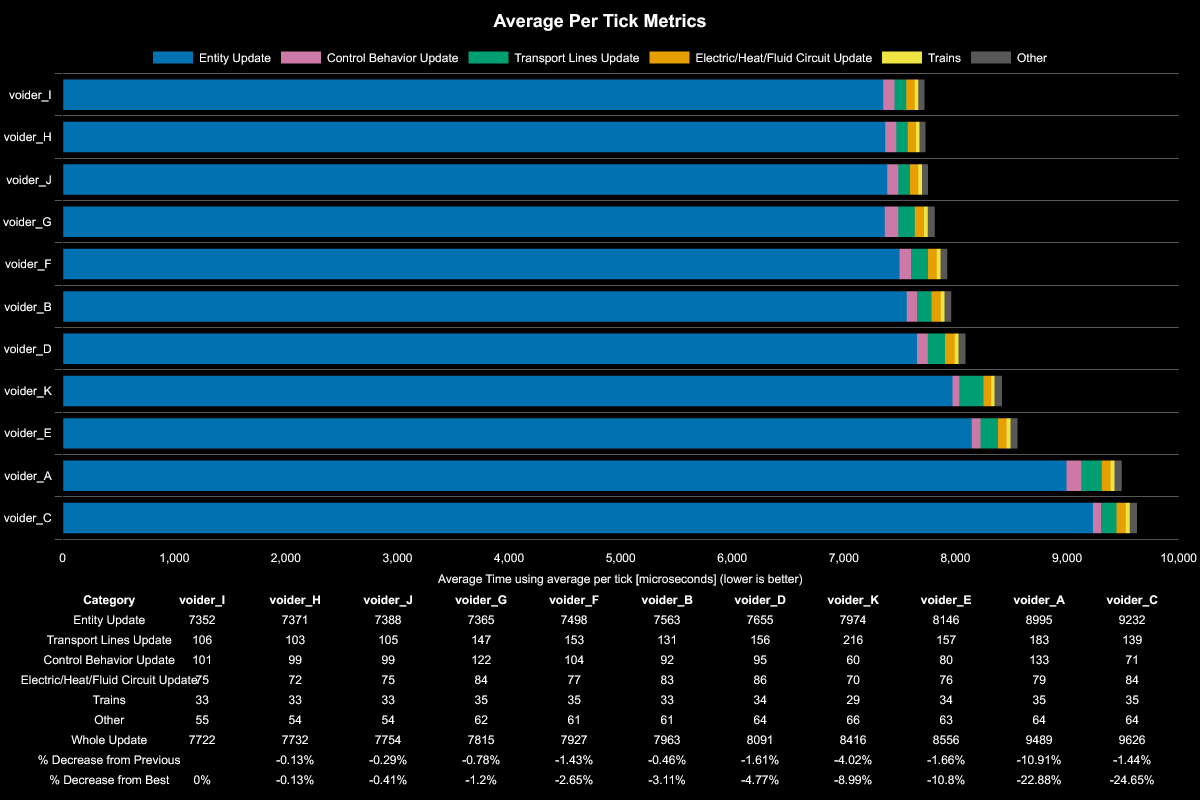
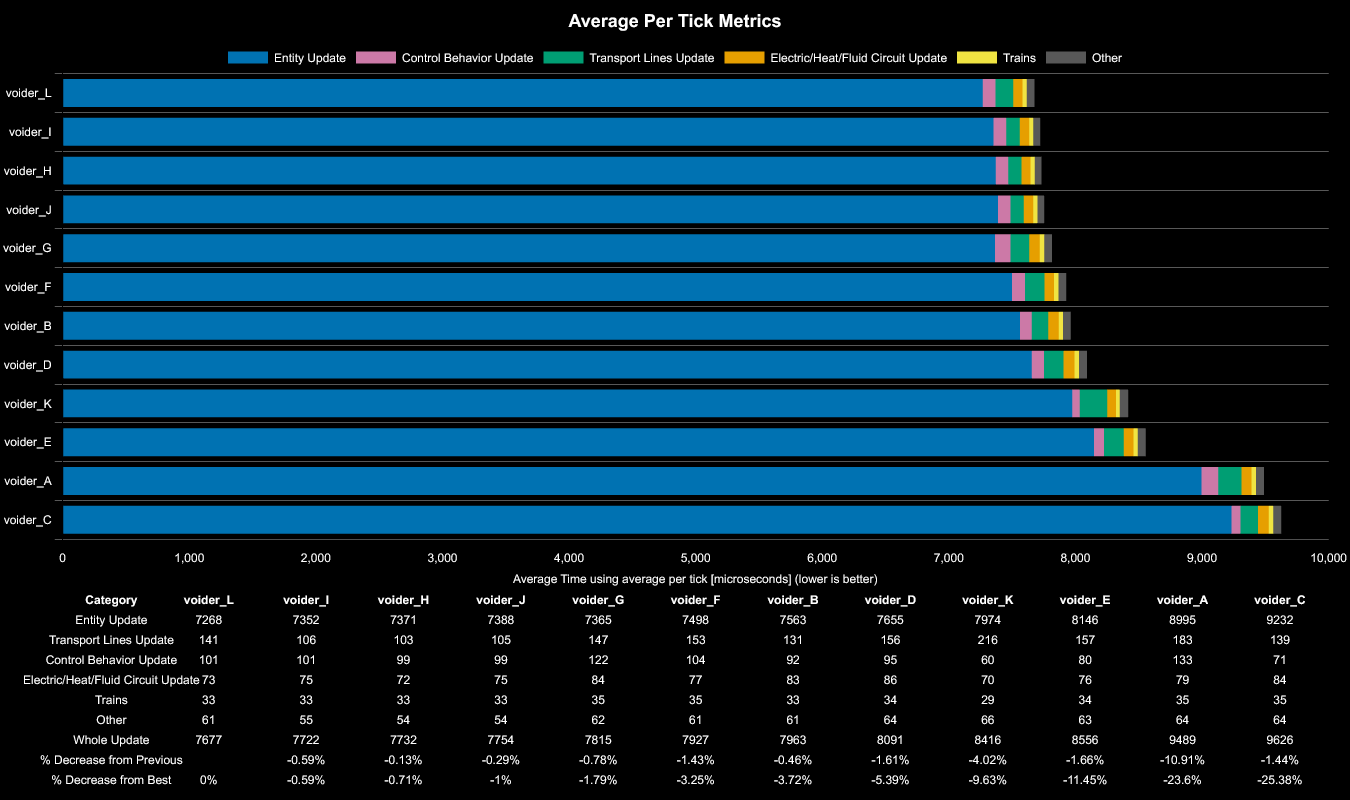
design L

diff --git a/benchmarks/2025-10-14-recycler-clocking/README.md b/benchmarks/2025-10-14-recycler-clocking/README.md
@@ -11,21 +11,22 @@
 
 ### Designs
 
-All Designs: https://factoriobin.com/post/i2sb8g
+All Designs: https://factoriobin.com/post/nv7lg3
 
-| Name | Q2 Ore Output | Description                                                     | Screenshot                                                                                                           |
-| ---- | ------------- | --------------------------------------------------------------- | -------------------------------------------------------------------------------------------------------------------- |
-| A    | 480/s         | latched on / off based on quantity in steel chests              | <a href="design_screenshot/design_A.png"><img src="design_screenshot/design_A.png" alt="design_A" height="100"/></a> |
-| B    | 240/s         | clocked recyclers                                               | <a href="design_screenshot/design_B.png"><img src="design_screenshot/design_B.png" alt="design_B" height="100"/></a> |
-| C    | 240/s         | same as B, no clocking                                          | <a href="design_screenshot/design_C.png"><img src="design_screenshot/design_C.png" alt="design_C" height="100"/></a> |
-| D    | 240/s         | clocked recycler never runs out of input ingredients            | <a href="design_screenshot/design_D.png"><img src="design_screenshot/design_D.png" alt="design_D" height="100"/></a> |
-| E    | 240/s         | exact machine speed (1080/s Q1 voiding)                         | <a href="design_screenshot/design_E.png"><img src="design_screenshot/design_E.png" alt="design_E" height="100"/></a> |
-| F    | 240/s         | same as E with clocked waste inserters (car to recycler)        | <a href="design_screenshot/design_F.png"><img src="design_screenshot/design_F.png" alt="design_F" height="100"/></a> |
-| G    | 240/s         | same as B with clocked waste inserters (car to recycler)        | <a href="design_screenshot/design_G.png"><img src="design_screenshot/design_G.png" alt="design_G" height="100"/></a> |
-| H    | 480/s         | v2.3.1 from The End but modified to be tileable                 | <a href="design_screenshot/design_H.png"><img src="design_screenshot/design_H.png" alt="design_H" height="100"/></a> |
-| I    | 480/s         | Same as H but larger buffers in cargo wagon                     | <a href="design_screenshot/design_I.png"><img src="design_screenshot/design_I.png" alt="design_I" height="100"/></a> |
-| J    | 480/s         | Same as I but all modulo clocks from the same single base clock | <a href="design_screenshot/design_J.png"><img src="design_screenshot/design_J.png" alt="design_J" height="100"/></a> |
-| K    | 284/s         | always active recycler, extra lane of output for 44/s           | <a href="design_screenshot/design_K.png"><img src="design_screenshot/design_K.png" alt="design_K" height="100"/></a> |
+| Name | Q2 Ore Output | Description                                                                         | Screenshot                                                                                                           |
+| ---- | ------------- | ----------------------------------------------------------------------------------- | -------------------------------------------------------------------------------------------------------------------- |
+| A    | 480/s         | latched on / off based on quantity in steel chests                                  | <a href="design_screenshot/design_A.png"><img src="design_screenshot/design_A.png" alt="design_A" height="100"/></a> |
+| B    | 240/s         | clocked recyclers                                                                   | <a href="design_screenshot/design_B.png"><img src="design_screenshot/design_B.png" alt="design_B" height="100"/></a> |
+| C    | 240/s         | same as B, no clocking                                                              | <a href="design_screenshot/design_C.png"><img src="design_screenshot/design_C.png" alt="design_C" height="100"/></a> |
+| D    | 240/s         | clocked recycler never runs out of input ingredients                                | <a href="design_screenshot/design_D.png"><img src="design_screenshot/design_D.png" alt="design_D" height="100"/></a> |
+| E    | 240/s         | exact machine speed (1080/s Q1 voiding)                                             | <a href="design_screenshot/design_E.png"><img src="design_screenshot/design_E.png" alt="design_E" height="100"/></a> |
+| F    | 240/s         | same as E with clocked waste inserters (car to recycler)                            | <a href="design_screenshot/design_F.png"><img src="design_screenshot/design_F.png" alt="design_F" height="100"/></a> |
+| G    | 240/s         | same as B with clocked waste inserters (car to recycler)                            | <a href="design_screenshot/design_G.png"><img src="design_screenshot/design_G.png" alt="design_G" height="100"/></a> |
+| H    | 480/s         | v2.3.1 from The End but modified to be tileable                                     | <a href="design_screenshot/design_H.png"><img src="design_screenshot/design_H.png" alt="design_H" height="100"/></a> |
+| I    | 480/s         | Same as H but larger buffers in cargo wagon                                         | <a href="design_screenshot/design_I.png"><img src="design_screenshot/design_I.png" alt="design_I" height="100"/></a> |
+| J    | 480/s         | Same as I but all modulo clocks from the same single base clock                     | <a href="design_screenshot/design_J.png"><img src="design_screenshot/design_J.png" alt="design_J" height="100"/></a> |
+| K    | 284/s         | always active recycler, extra lane of output for 44/s                               | <a href="design_screenshot/design_K.png"><img src="design_screenshot/design_K.png" alt="design_K" height="100"/></a> |
+| L    | 480/s         | Same as I with 3 Q5 stack inserters to belt instead of 4 Q4 stack inserters to belt | <a href="design_screenshot/design_L.png"><img src="design_screenshot/design_L.png" alt="design_L" height="100"/></a> |
 
 ## Results
 | Metric            | Description                           |
@@ -42,21 +43,23 @@ All Designs: https://factoriobin.com/post/i2sb8g
 | **Mean Min (ms)** | Minimum frame time - lower is better  |
 | **Mean Max (ms)** | Maximum frame time - lower is better  |
 
-| Save            | Avg (ms) | Min (ms) | Max (ms) | UPS | Execution Time (ms) |
-| --------------- | -------- | -------- | -------- | --- | ------------------- |
-| bm_ore_voider_C | 9.630    | 7.203    | 17.851   | 103 | 208007              |
-| bm_ore_voider_A | 9.493    | 8.843    | 18.440   | 105 | 205040              |
-| bm_ore_voider_E | 8.559    | 5.686    | 15.877   | 116 | 184876              |
-| bm_ore_voider_K | 8.419    | 7.400    | 18.148   | 118 | 181863              |
-| bm_ore_voider_D | 8.095    | 1.889    | 22.515   | 123 | 174846              |
-| bm_ore_voider_B | 7.965    | 1.263    | 18.775   | 125 | 172043              |
-| bm_ore_voider_F | 7.930    | 5.742    | 15.086   | 126 | 171286              |
-| bm_ore_voider_G | 7.819    | 1.029    | 18.257   | 127 | 168886              |
-| bm_ore_voider_J | 7.757    | 3.255    | 16.397   | 128 | 167545              |
-| bm_ore_voider_H | 7.735    | 3.682    | 20.902   | 129 | 167084              |
-| bm_ore_voider_I | 7.725    | 3.274    | 17.029   | 129 | 166856              |
+| Save            | Avg (ms) | Min (ms) | Max (ms) | UPS     | Execution Time (ms) |
+| --------------- | -------- | -------- | -------- | ------- | ------------------- |
+| bm_ore_voider_C | 9.630    | 7.203    | 17.851   | 103     | 208007              |
+| bm_ore_voider_A | 9.493    | 8.843    | 18.440   | 105     | 205040              |
+| bm_ore_voider_E | 8.559    | 5.686    | 15.877   | 116     | 184876              |
+| bm_ore_voider_K | 8.419    | 7.400    | 18.148   | 118     | 181863              |
+| bm_ore_voider_D | 8.095    | 1.889    | 22.515   | 123     | 174846              |
+| bm_ore_voider_B | 7.965    | 1.263    | 18.775   | 125     | 172043              |
+| bm_ore_voider_F | 7.930    | 5.742    | 15.086   | 126     | 171286              |
+| bm_ore_voider_G | 7.819    | 1.029    | 18.257   | 127     | 168886              |
+| bm_ore_voider_J | 7.757    | 3.255    | 16.397   | 128     | 167545              |
+| bm_ore_voider_H | 7.735    | 3.682    | 20.902   | 129     | 167084              |
+| bm_ore_voider_I | 7.725    | 3.274    | 17.029   | 129     | 166856              |
+| bm_ore_voider_L | 7.681    | 2.869    | 17.044   | **130** | 165902              |
 
 ![summary_verbose_metrics_all_designs_table.png](summary_verbose_metrics_all_designs_table.png)
+![summary_run_distribution_all.png](summary_run_distribution_all.png)
 
 ## Designs
 
@@ -93,6 +96,8 @@ All Designs: https://factoriobin.com/post/i2sb8g
 ### Design K
 ![alt text](timeseries_voider_K.png)
 
-## Conclusion
+### Design L
+![alt text](timeseries_voider_L.png)
 
+## Conclusion
 TODO

diff --git a/benchmarks/2025-10-14-recycler-clocking/results.md b/benchmarks/2025-10-14-recycler-clocking/results.md
@@ -16,9 +16,7 @@
 
 | Save | Avg (ms) | Min (ms) | Max (ms) | UPS | Execution Time (ms) | % Difference from Worst |
 |------|----------|----------|----------|-----|---------------------| --- |
-| bm_ore_voider_J | 7.757 | 3.255 | 16.397 | 128 | 167545 | 0.00% |
-| bm_ore_voider_H | 7.735 | 3.682 | 20.902 | **129** | 167084 | 0.27% |
-| bm_ore_voider_I | 7.725 | 3.274 | 17.029 | **129** | 166856 | 0.41% |
+| bm_ore_voider_L | 7.681 | 2.869 | 17.044 | **130** | 165902 | 0.00% |
 
 ![result_0_chart.svg](result_0_chart.svg)
 
